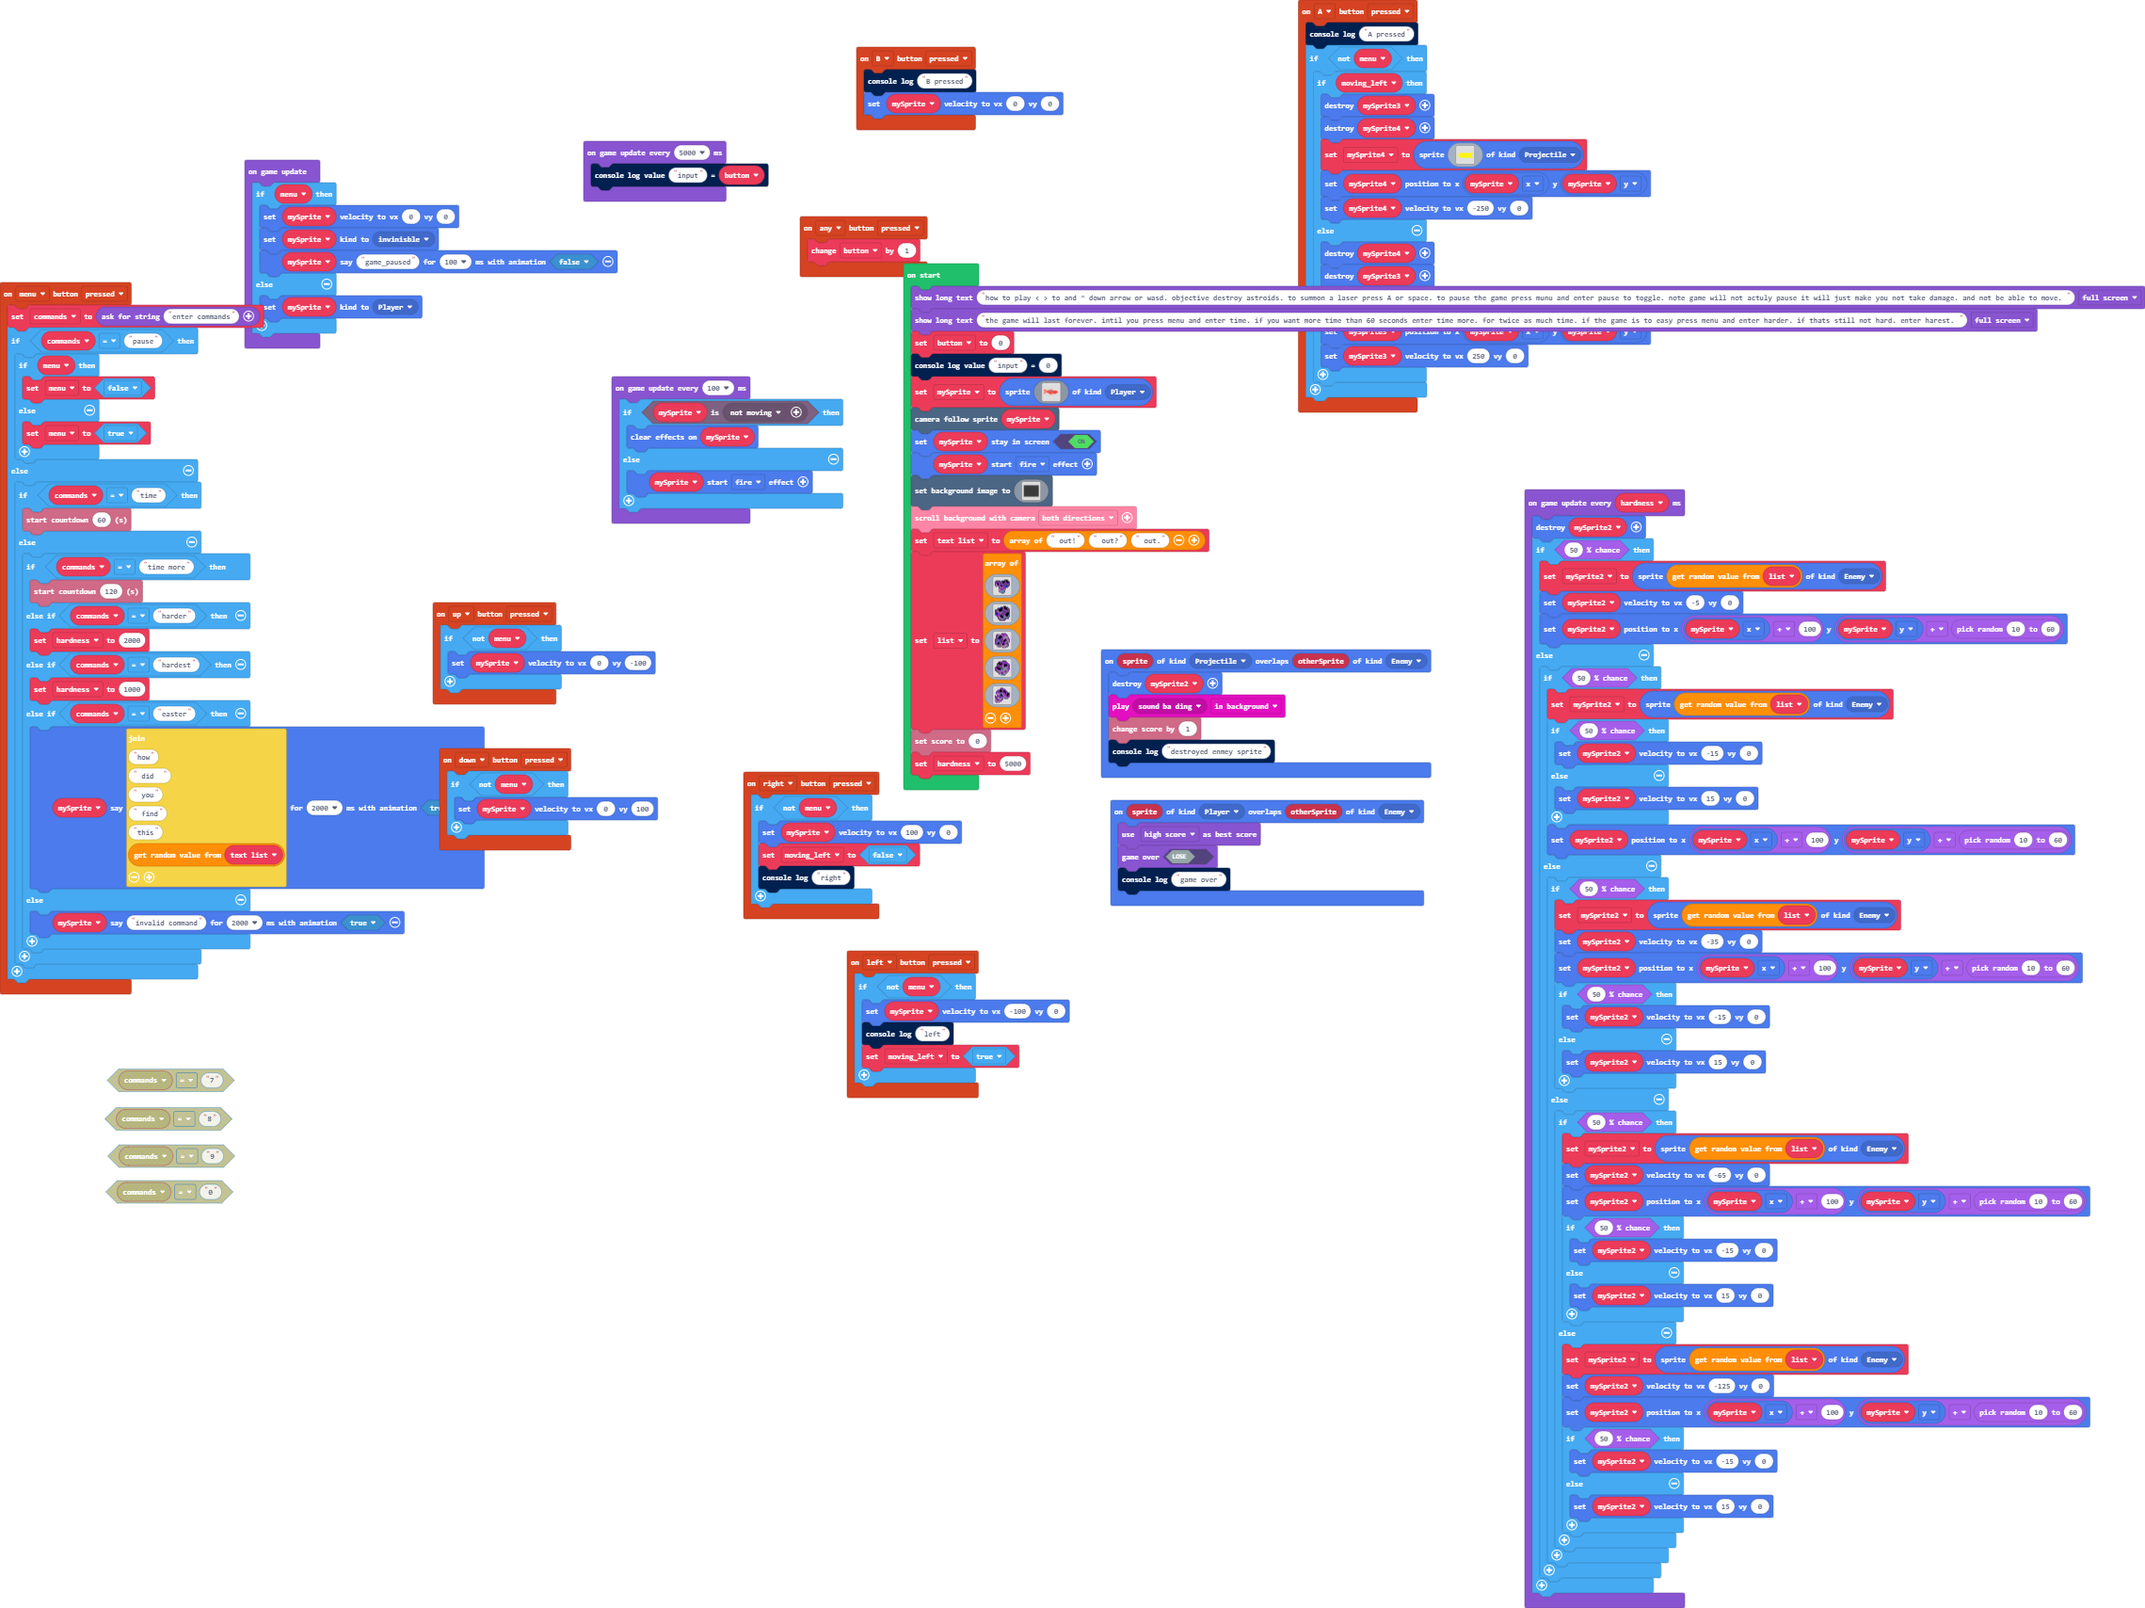
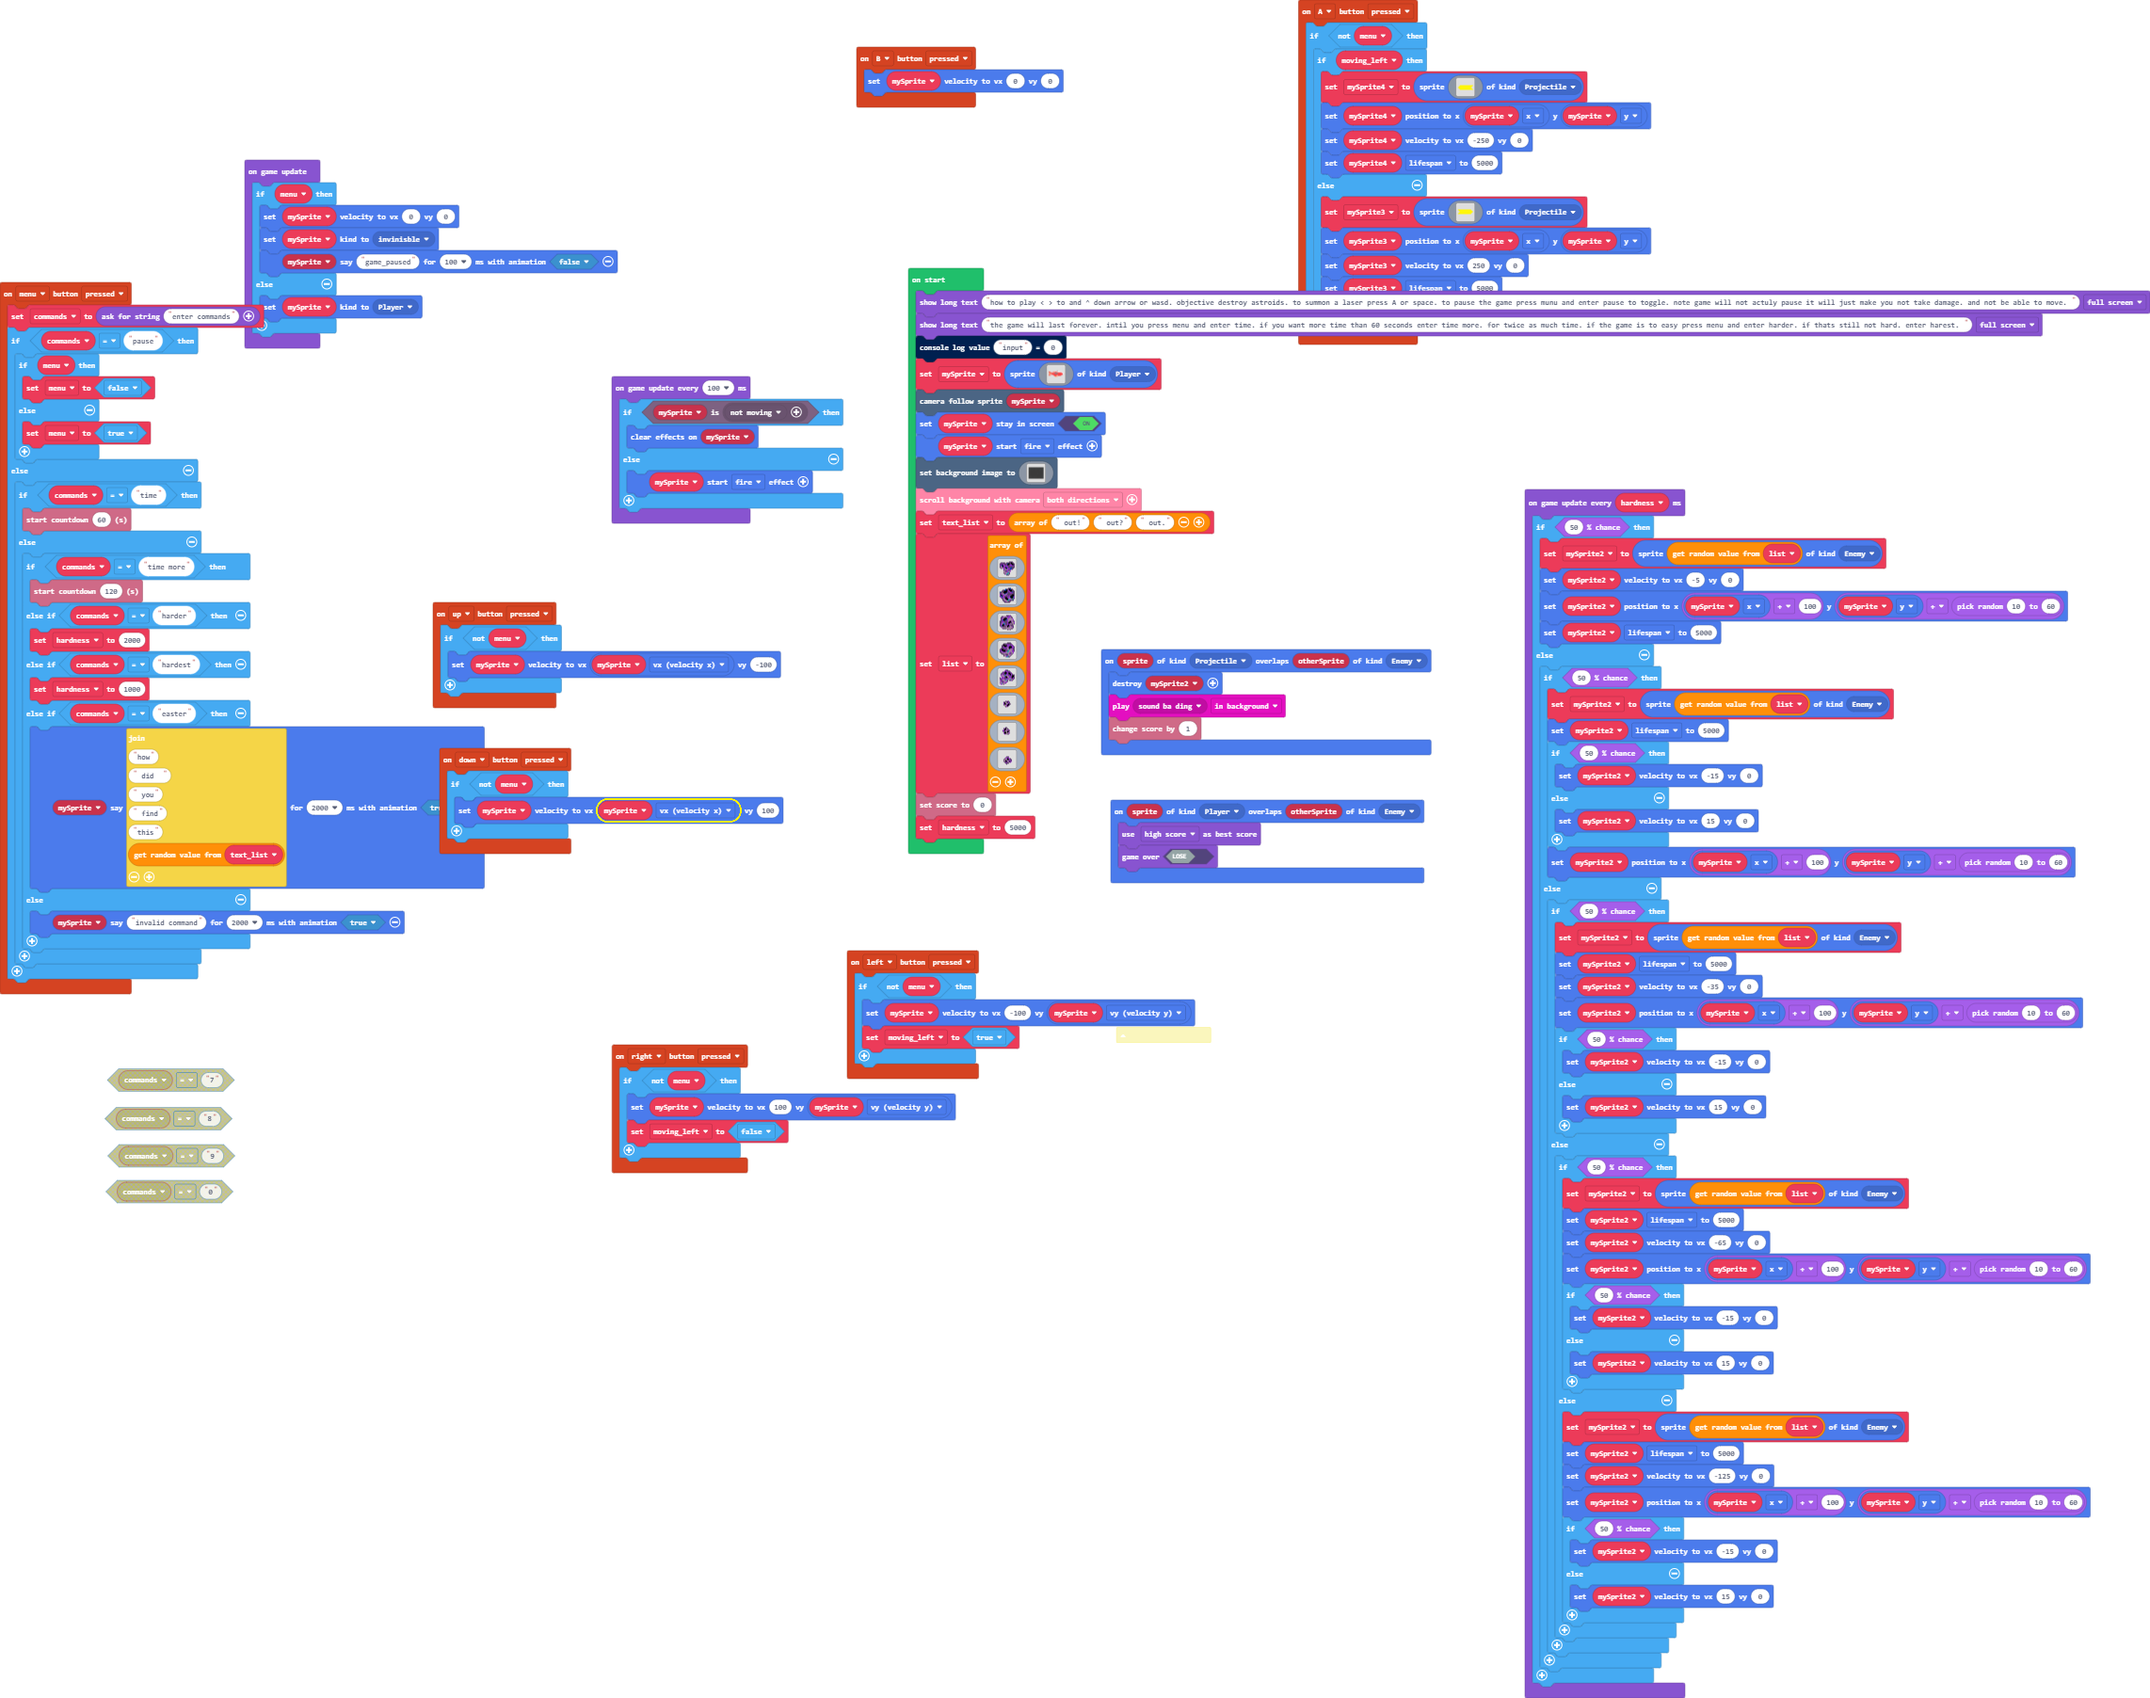
Update pxt.json, main.blocks, main.ts

Changed region(s): [[0.0, 0.0, 1.0, 0.993], [0.3738, 0.031, 0.4985, 0.0931]]

diff --git a/main.ts b/main.ts
@@ -3,22 +3,15 @@ namespace SpriteKind {
 }
 controller.up.onEvent(ControllerButtonEvent.Pressed, function () {
     if (!(menu)) {
-        mySprite.setVelocity(0, -100)
+        mySprite.setVelocity(mySprite.vx, -100)
     }
 })
 controller.B.onEvent(ControllerButtonEvent.Pressed, function () {
-    console.log("B pressed")
     mySprite.setVelocity(0, 0)
 })
-controller.anyButton.onEvent(ControllerButtonEvent.Pressed, function () {
-    button += 1
-})
 controller.A.onEvent(ControllerButtonEvent.Pressed, function () {
-    console.log("A pressed")
     if (!(menu)) {
         if (moving_left) {
-            sprites.destroy(mySprite3)
-            sprites.destroy(mySprite4)
             mySprite4 = sprites.create(img`
                 . . . . . . . . . . . . . . . . 
                 . . . . . . . . . . . . . . . . 
@@ -39,9 +32,8 @@ controller.A.onEvent(ControllerButtonEvent.Pressed, function () {
                 `, SpriteKind.Projectile)
             mySprite4.setPosition(mySprite.x, mySprite.y)
             mySprite4.setVelocity(-250, 0)
+            mySprite4.lifespan = 5000
         } else {
-            sprites.destroy(mySprite4)
-            sprites.destroy(mySprite3)
             mySprite3 = sprites.create(img`
                 . . . . . . . . . . . . . . . . 
                 . . . . . . . . . . . . . . . . 
@@ -62,26 +54,27 @@ controller.A.onEvent(ControllerButtonEvent.Pressed, function () {
                 `, SpriteKind.Projectile)
             mySprite3.setPosition(mySprite.x, mySprite.y)
             mySprite3.setVelocity(250, 0)
+            mySprite3.lifespan = 5000
         }
     }
 })
+/**
+ */
 controller.left.onEvent(ControllerButtonEvent.Pressed, function () {
     if (!(menu)) {
-        mySprite.setVelocity(-100, 0)
-        console.log("left")
+        mySprite.setVelocity(-100, mySprite.vy)
         moving_left = true
     }
 })
 controller.right.onEvent(ControllerButtonEvent.Pressed, function () {
     if (!(menu)) {
-        mySprite.setVelocity(100, 0)
+        mySprite.setVelocity(100, mySprite.vy)
         moving_left = false
-        console.log("right")
     }
 })
 controller.down.onEvent(ControllerButtonEvent.Pressed, function () {
     if (!(menu)) {
-        mySprite.setVelocity(0, 100)
+        mySprite.setVelocity(mySprite.vx, 100)
     }
 })
 controller.menu.onEvent(ControllerButtonEvent.Pressed, function () {
@@ -114,17 +107,15 @@ sprites.onOverlap(SpriteKind.Projectile, SpriteKind.Enemy, function (sprite, oth
     sprites.destroy(mySprite2)
     music.play(music.melodyPlayable(music.baDing), music.PlaybackMode.InBackground)
     info.changeScoreBy(1)
-    console.log("destroyed enmey sprite")
 })
 sprites.onOverlap(SpriteKind.Player, SpriteKind.Enemy, function (sprite, otherSprite) {
     game.setGameOverScoringType(game.ScoringType.HighScore)
     game.gameOver(false)
-    console.log("game over")
 })
 let mySprite2: Sprite = null
 let commands = ""
-let mySprite4: Sprite = null
 let mySprite3: Sprite = null
+let mySprite4: Sprite = null
 let moving_left = false
 let menu = false
 let hardness = 0
@@ -132,7 +123,6 @@ let text_list: string[] = []
 let mySprite: Sprite = null
 game.showLongText("how to play < > to and ^ down arrow or wasd. objective destroy astroids. to summon a laser press A or space. to pause the game press munu and enter pause to toggle. note game will not actuly pause it will just make you not take damage. and not be able to move. ", DialogLayout.Full)
 game.showLongText("the game will last forever. intil you press menu and enter time. if you want more time than 60 seconds enter time more. for twice as much time. if the game is to easy press menu and enter harder. if thats still not hard. enter harest. ", DialogLayout.Full)
-let button = 0
 console.logValue("input", 0)
 mySprite = sprites.create(img`
     ....................f...............
@@ -369,6 +359,60 @@ img`
     b b a c a b a a . . . . . . . . 
     a b 6 b b a c . . . . . . . . . 
     . a a b c . . . . . . . . . . . 
+    `,
+img`
+    . . . . . . . . . . . . . . . . 
+    . . . . . . . . . . . . . . . . 
+    . . . . . . . . . . . . . . . . 
+    . . . . . . . . . . . . . . . . 
+    . . . . . . c b a c . . . . . . 
+    . . . . c c b c f a c . . . . . 
+    . . . . a f b b b a c . . . . . 
+    . . . . a f f b a f c c . . . . 
+    . . . . c b b a f f c . . . . . 
+    . . . . . b b a f a . . . . . . 
+    . . . . . . c b b . . . . . . . 
+    . . . . . . . . . . . . . . . . 
+    . . . . . . . . . . . . . . . . 
+    . . . . . . . . . . . . . . . . 
+    . . . . . . . . . . . . . . . . 
+    . . . . . . . . . . . . . . . . 
+    `,
+img`
+    . . . . . . . . . . . . . . . . 
+    . . . . . . . . . . . . . . . . 
+    . . . . . . . . . . . . . . . . 
+    . . . . . . c c . . . . . . . . 
+    . . . . c a f b c . . . . . . . 
+    . . . . b f f b c c . . . . . . 
+    . . . a a f b a b a c . . . . . 
+    . . . c a c b b f f b . . . . . 
+    . . . . b f f b f a b . . . . . 
+    . . . . a f f b b b a . . . . . 
+    . . . . . a b b c c . . . . . . 
+    . . . . . . . . . . . . . . . . 
+    . . . . . . . . . . . . . . . . 
+    . . . . . . . . . . . . . . . . 
+    . . . . . . . . . . . . . . . . 
+    . . . . . . . . . . . . . . . . 
+    `,
+img`
+    . . . . . . . . . . . . . . . . 
+    . . . . . . . . . . . . . . . . 
+    . . . . . . . . . . . . . . . . 
+    . . . . . . . . . . . . . . . . 
+    . . . . . . . . . . . . . . . . 
+    . . . . . . . c c c . . . . . . 
+    . . . . . . a b a a . . . . . . 
+    . . . . . c b a f c a c . . . . 
+    . . . . c b b b f f a c c . . . 
+    . . . . b b f a b b a a c . . . 
+    . . . . c b f f b a f c a . . . 
+    . . . . . c a a c b b a . . . . 
+    . . . . . . c c c c . . . . . . 
+    . . . . . . . c . . . . . . . . 
+    . . . . . . . . . . . . . . . . 
+    . . . . . . . . . . . . . . . . 
     `
 ]
 info.setScore(0)
@@ -382,18 +426,16 @@ game.onUpdate(function () {
         mySprite.setKind(SpriteKind.Player)
     }
 })
-game.onUpdateInterval(5000, function () {
-    console.logValue("input", button)
-})
 game.onUpdateInterval(hardness, function () {
-    sprites.destroy(mySprite2)
     if (Math.percentChance(50)) {
         mySprite2 = sprites.create(list._pickRandom(), SpriteKind.Enemy)
         mySprite2.setVelocity(-5, 0)
         mySprite2.setPosition(mySprite.x + 100, mySprite.y + randint(10, 60))
+        mySprite2.lifespan = 5000
     } else {
         if (Math.percentChance(50)) {
             mySprite2 = sprites.create(list._pickRandom(), SpriteKind.Enemy)
+            mySprite2.lifespan = 5000
             if (Math.percentChance(50)) {
                 mySprite2.setVelocity(-15, 0)
             } else {
@@ -403,6 +445,7 @@ game.onUpdateInterval(hardness, function () {
         } else {
             if (Math.percentChance(50)) {
                 mySprite2 = sprites.create(list._pickRandom(), SpriteKind.Enemy)
+                mySprite2.lifespan = 5000
                 mySprite2.setVelocity(-35, 0)
                 mySprite2.setPosition(mySprite.x + 100, mySprite.y + randint(10, 60))
                 if (Math.percentChance(50)) {
@@ -413,6 +456,7 @@ game.onUpdateInterval(hardness, function () {
             } else {
                 if (Math.percentChance(50)) {
                     mySprite2 = sprites.create(list._pickRandom(), SpriteKind.Enemy)
+                    mySprite2.lifespan = 5000
                     mySprite2.setVelocity(-65, 0)
                     mySprite2.setPosition(mySprite.x + 100, mySprite.y + randint(10, 60))
                     if (Math.percentChance(50)) {
@@ -422,6 +466,7 @@ game.onUpdateInterval(hardness, function () {
                     }
                 } else {
                     mySprite2 = sprites.create(list._pickRandom(), SpriteKind.Enemy)
+                    mySprite2.lifespan = 5000
                     mySprite2.setVelocity(-125, 0)
                     mySprite2.setPosition(mySprite.x + 100, mySprite.y + randint(10, 60))
                     if (Math.percentChance(50)) {
